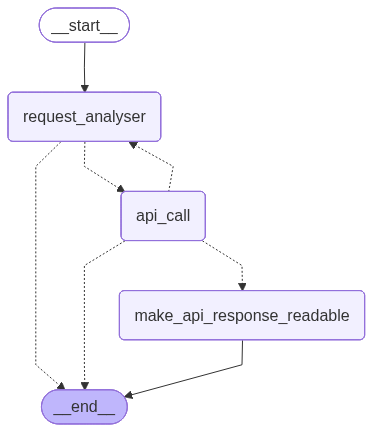
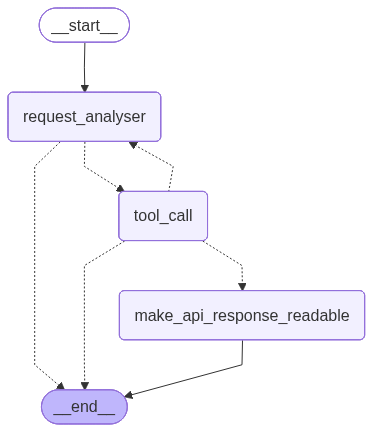
Refactor graph routing logic and improve node naming conventions
- Updated the graph.py file to replace string literals with named constants for node identifiers, enhancing code readability and maintainability.
- Adjusted routing functions to utilize the new constants, ensuring consistency across the graph's structure.
- Modified the graph builder to reflect these changes, improving clarity in the graph's node and edge definitions.

diff --git a/backend/graph.py b/backend/graph.py
@@ -72,12 +72,20 @@ def make_api_response_readable(state: MessagesState):
 
 
 # ---------------------------------------------------------------------------
+# Node names
+# ---------------------------------------------------------------------------
+NODE_REQUEST_ANALYSER = "request_analyser"
+NODE_TOOL_CALL = "tool_call"
+NODE_FORMAT_RESPONSE = "make_api_response_readable"
+
+
+# ---------------------------------------------------------------------------
 # Routing functions
 # ---------------------------------------------------------------------------
 def route_after_analyser(state: MessagesState) -> str:
     last_message = state["messages"][-1]
     if hasattr(last_message, "tool_calls") and last_message.tool_calls:
-        return "api_call"
+        return NODE_TOOL_CALL
     return END
 
 
@@ -85,8 +93,8 @@ def route_after_tools(state: MessagesState) -> str:
     for msg in reversed(state["messages"]):
         if isinstance(msg, ToolMessage):
             if msg.name == "ready_to_format":
-                return "make_api_response_readable"
-            return "request_analyser"
+                return NODE_FORMAT_RESPONSE
+            return NODE_REQUEST_ANALYSER
     return END
 
 
@@ -95,21 +103,23 @@ def route_after_tools(state: MessagesState) -> str:
 # ---------------------------------------------------------------------------
 graph_builder = StateGraph(MessagesState)
 
-graph_builder.add_node("request_analyser", request_analyser)
-graph_builder.add_node("api_call", tool_node)
-graph_builder.add_node("make_api_response_readable", make_api_response_readable)
+graph_builder.add_node(NODE_REQUEST_ANALYSER, request_analyser)
+graph_builder.add_node(NODE_TOOL_CALL, tool_node)
+graph_builder.add_node(NODE_FORMAT_RESPONSE, make_api_response_readable)
 
-graph_builder.add_edge(START, "request_analyser")
+graph_builder.add_edge(START, NODE_REQUEST_ANALYSER)
 graph_builder.add_conditional_edges(
-    "request_analyser", route_after_analyser, {"api_call": "api_call", END: END},
+    NODE_REQUEST_ANALYSER,
+    route_after_analyser,
+    {NODE_TOOL_CALL: NODE_TOOL_CALL, END: END},
 )
 graph_builder.add_conditional_edges(
-    "api_call",
+    NODE_TOOL_CALL,
     route_after_tools,
     {
-        "request_analyser": "request_analyser",
-        "make_api_response_readable": "make_api_response_readable",
+        NODE_REQUEST_ANALYSER: NODE_REQUEST_ANALYSER,
+        NODE_FORMAT_RESPONSE: NODE_FORMAT_RESPONSE,
         END: END,
     },
 )
-graph_builder.add_edge("make_api_response_readable", END)
+graph_builder.add_edge(NODE_FORMAT_RESPONSE, END)
